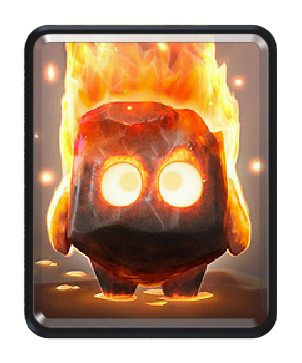
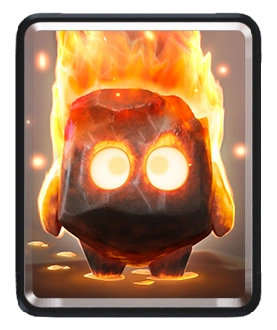
more beutifull pictures and bug fixes

diff --git a/src/main.ts b/src/main.ts
@@ -70,7 +70,7 @@ async function kiir(name:string)
         const descriptionCol = document.createElement("td");
         const imgTag = document.createElement("img");
         imageCol.append(imgTag);
-        imgTag.src = `/images/cards/card${ab.id}.jpg`;
+        imgTag.src = `/images/cards+/${ab.name}.png`;
         nameCol.textContent = ab.name;
         if(randomCard[0].name != ab.name)
         {
@@ -151,7 +151,7 @@ function helpDesc()
  function helpImg()
  {
     document.getElementById("helpBekezdes")!.textContent = null;
-    (document.getElementById("helpKep") as HTMLImageElement).src = (`../images/cards/card${randomCard[0].id}.jpg`);
+    (document.getElementById("helpKep") as HTMLImageElement).src = (`../images/cards+/${randomCard[0].name}.png`);
     console.log();
  }
  function autoFill(id: number)
@@ -191,11 +191,11 @@ function helpDesc()
         console.log("U WINNER!")
     }
 }
-function gameMechanic(todaysCard: card,selectedCard: card)
+/*function gameMechanic(todaysCard: card,selectedCard: card)
 {
     if(todaysCard.arena > selectedCard.arena){
 
     }
-}
+}*/
 document.addEventListener('DOMContentLoaded', init)
 
